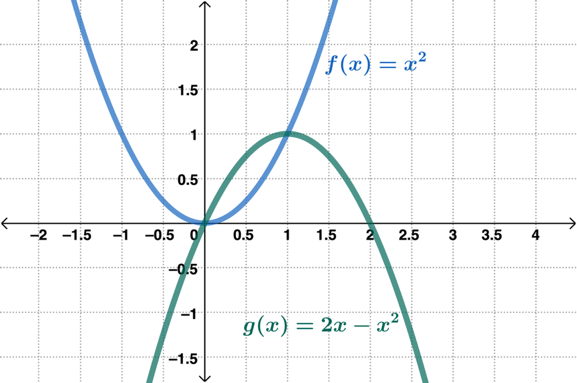
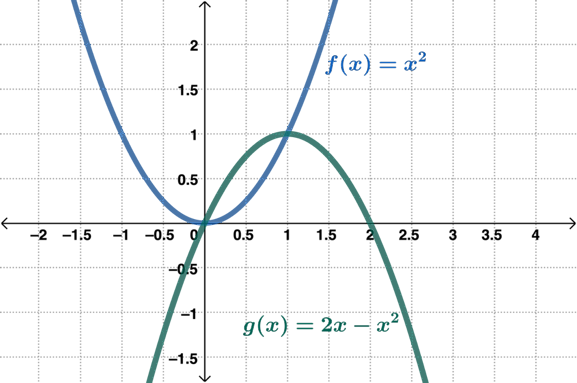
Session 1 accessibility: alt text, sans-serif fonts, contrast fixes
- Add <description> alt text to all six worksheet images (math spelled
  out in words, axis ranges, intersection points).
- custom.css: override --font-headings and --font-print so headings and
  the print preview use the Open Sans sans-serif stack instead of
  PT Serif (math stays in MathJax TeX fonts).
- Recolor s1-warmup-parabolas.png ink: Desmos blue/green curve labels
  were 3.2-3.5:1 against white, below the WCAG AA 4.5:1 text threshold;
  remapped to darker variants at 4.7:1 with anti-aliasing preserved.
  All other image label colors measured >= 5.2:1; page text 12.6-21:1.
- Trim 1.8in task workspaces to 1.7in (sans-serif metrics pushed page 4
  1px past the 11in print-page boundary).

diff --git a/assets/custom.css b/assets/custom.css
@@ -17,6 +17,19 @@
 }
 
 /*
+ * Accessibility: use a sans-serif face everywhere text appears (math is
+ * rendered by MathJax in its TeX fonts and is unaffected). The scrollable
+ * theme already uses Open Sans for body text but PT Serif for headings; the
+ * print-preview stylesheet (print-worksheet.css) sets PT Serif for the whole
+ * worksheet via --font-print. custom.css loads after both stylesheets, so
+ * these variable overrides win in both views.
+ */
+:root {
+  --font-headings: "Open Sans", "Helvetica Neue", Helvetica, Arial, sans-serif;
+  --font-print: "Open Sans", "Helvetica Neue", Helvetica, Arial, sans-serif;
+}
+
+/*
  * Print preview loads only print-worksheet.css, which draws tabular rules with
  * `1px solid var(--body-text-color)` — but that variable is defined in the theme
  * CSS, which print preview does NOT load. The empty var() invalidates the whole
